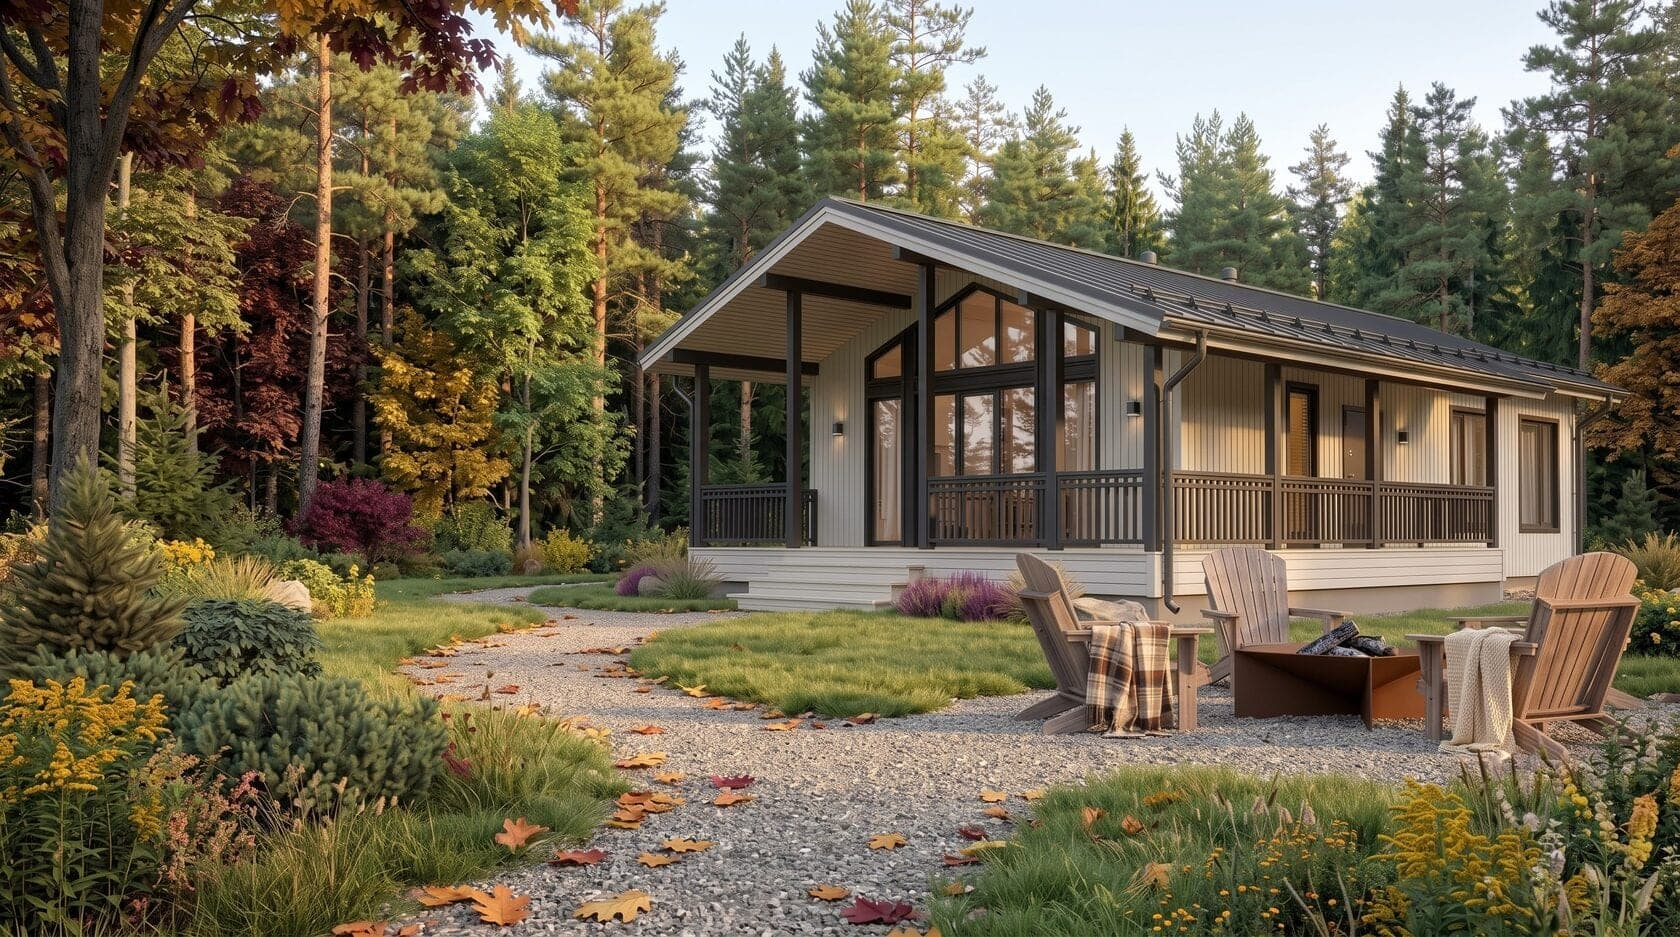
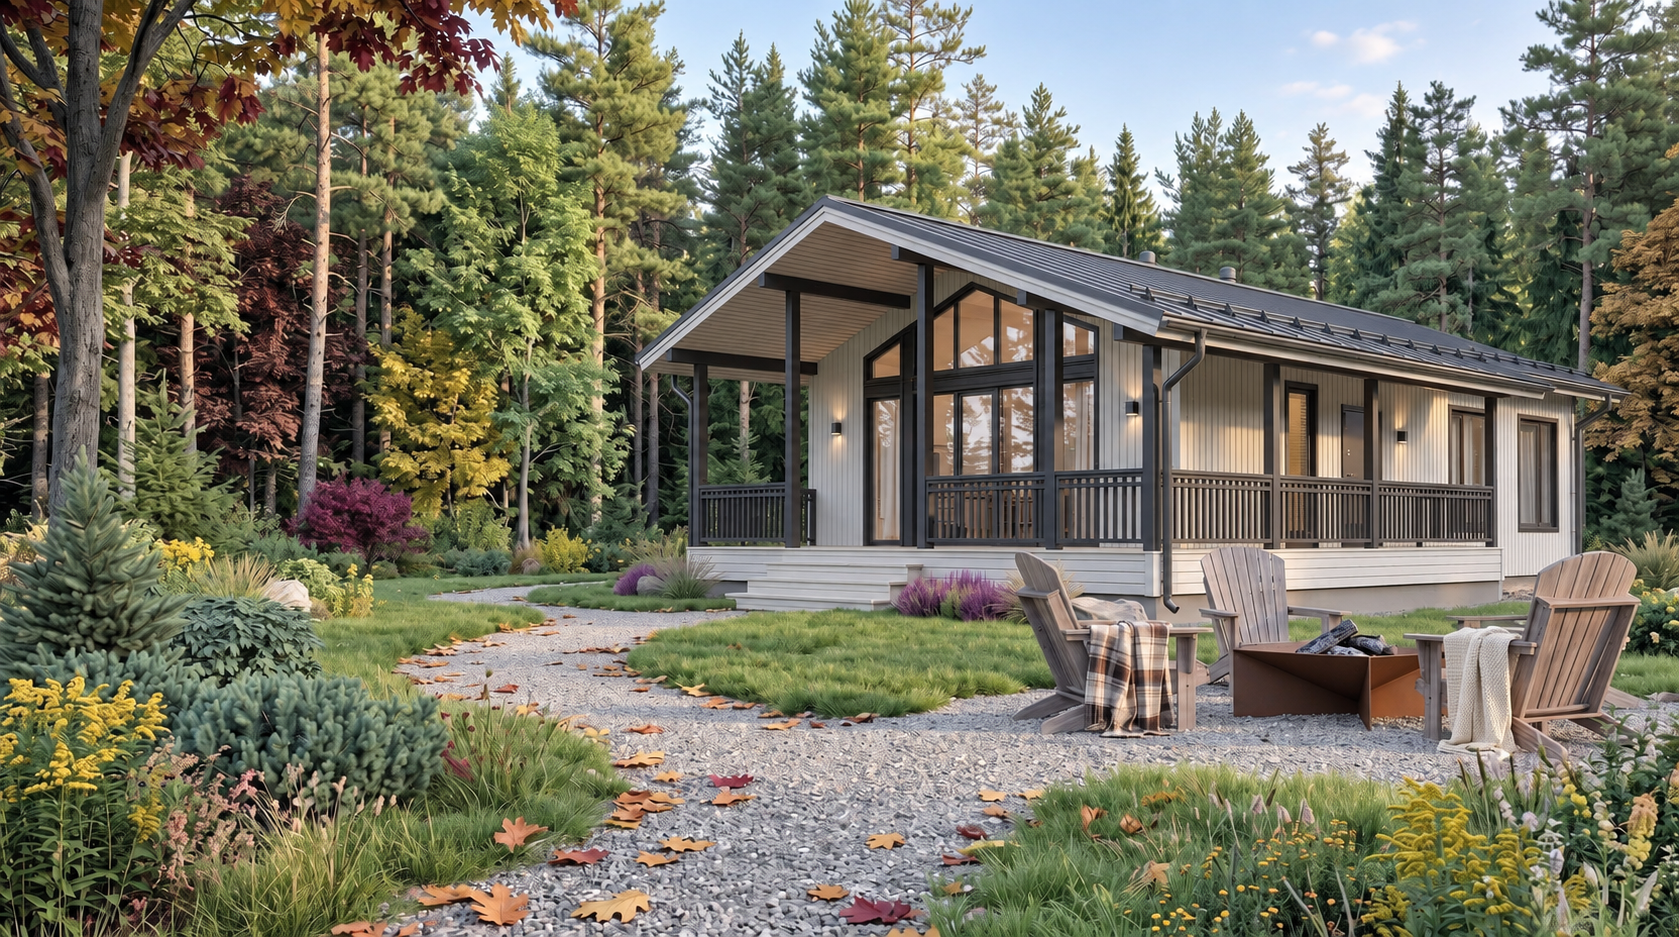
AV4-15: управление под лентой без сдвига карточки, шевроны видно
Прошлая правка опустила управление вниз, но заодно сдвинула сам слот.
Я нарастил подкладку снизу у ленты, лента выросла, а низ сцены закреплён —
карточку выдавило вверх, и под ней повисла пустота в 48px.

Место под управление не нужно создавать заново: между низом карточки и
низом сцены уже лежит её нижнее поле, и полоса с шевронами ставятся в
него. Карточка вернулась на прежнее место, 552–736, управление идёт под
ней и в сцену укладывается.

Шевроны не читались: у них была белая заливка в 12%, которая работала,
пока кнопки стояли над лентой на затемнённом кадре. Под лентой они легли
прямо на снимок и пропали — тем заметнее, что вуаль сейчас выключена
целиком. Дано то же стекло, что у карточки: тёмная подложка, светлая
грань и размытие.

diff --git a/src/app/styles.css b/src/app/styles.css
@@ -1071,8 +1071,13 @@ a {
   border: 0;
   border-radius: 8px;
   corner-shape: squircle;
-  background: rgb(255 255 255 / 0.12);
-  color: rgb(255 255 255 / 0.82);
+  /* То же стекло, что у карточки. Прежняя белая заливка в 12% читалась,
+     пока кнопки стояли над лентой на затемнённом кадре; под лентой они
+     легли прямо на снимок и пропали. */
+  border: var(--glass-border);
+  background: var(--glass-bg);
+  backdrop-filter: var(--glass-blur);
+  color: white;
   cursor: pointer;
   transition:
     background-color 0.2s var(--ease-out),
@@ -1481,15 +1486,12 @@ a {
    один, и естественное место у полосы прогресса — под ним, сразу за тем,
    к чему она относится.
 
-   Полоса под лентой требует места: оно взято подкладкой снизу у самой
-   ленты, а не отступом сцены, — иначе управление наезжало бы на полосу
-   преимуществ под баннером. */
-.hero__promos.is-rail {
-  padding-bottom: 38px;
-}
-
+   Место под полосу не создаётся заново: между низом карточки и низом
+   сцены уже лежит её нижнее поле в 48px, и управление ставится в него.
+   Наращивать подкладку у самой ленты нельзя — низ сцены закреплён, лента
+   вырастает вверх и выдавливает карточку, оставляя под ней пустоту. */
 .is-rail .hero__promo-nav {
-  inset: auto 0 0 auto;
+  inset: calc(100% + 14px) 0 auto auto;
 }
 
 .is-rail .hero__promo-nav-spacer {
@@ -1501,9 +1503,9 @@ a {
 }
 
 .is-rail .hero__promo-progress {
-  top: auto;
+  top: calc(100% + 18px);
   right: auto;
-  bottom: 4px;
+  bottom: auto;
   left: 0;
   width: 168px;
 }
